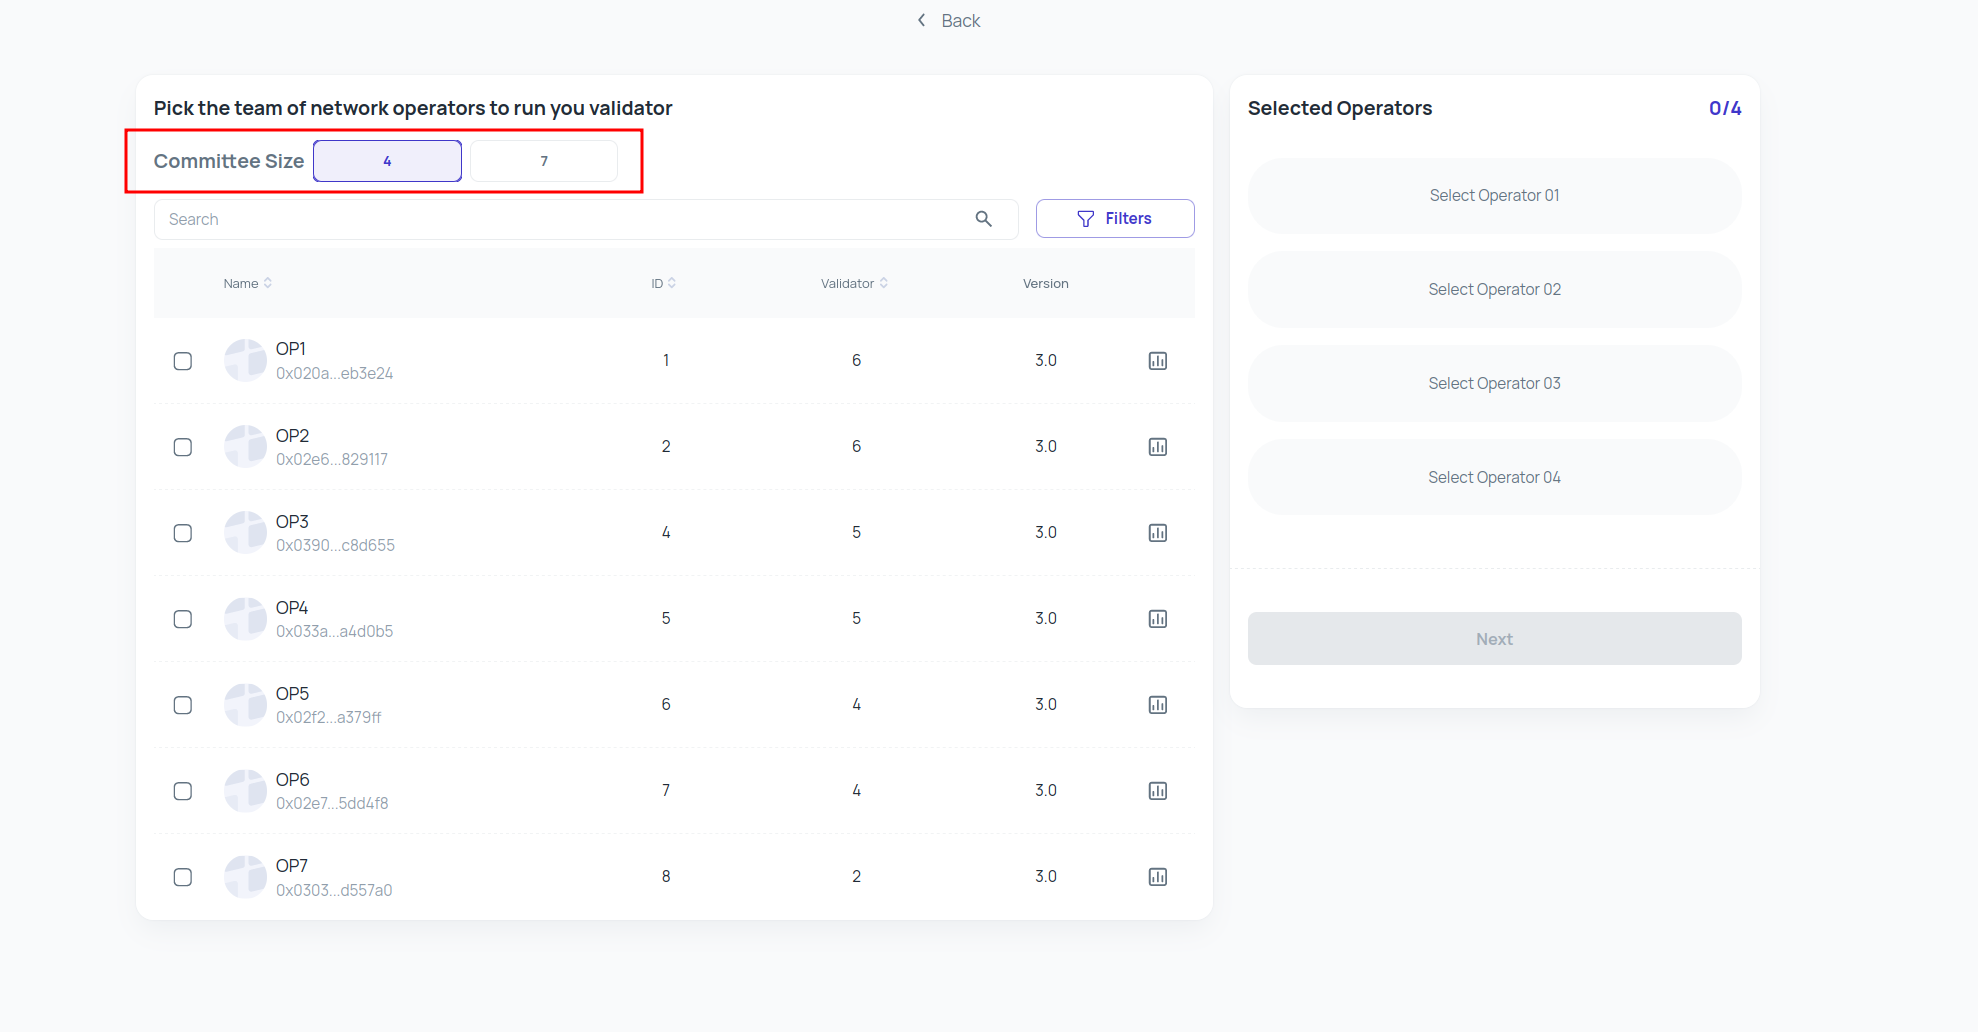
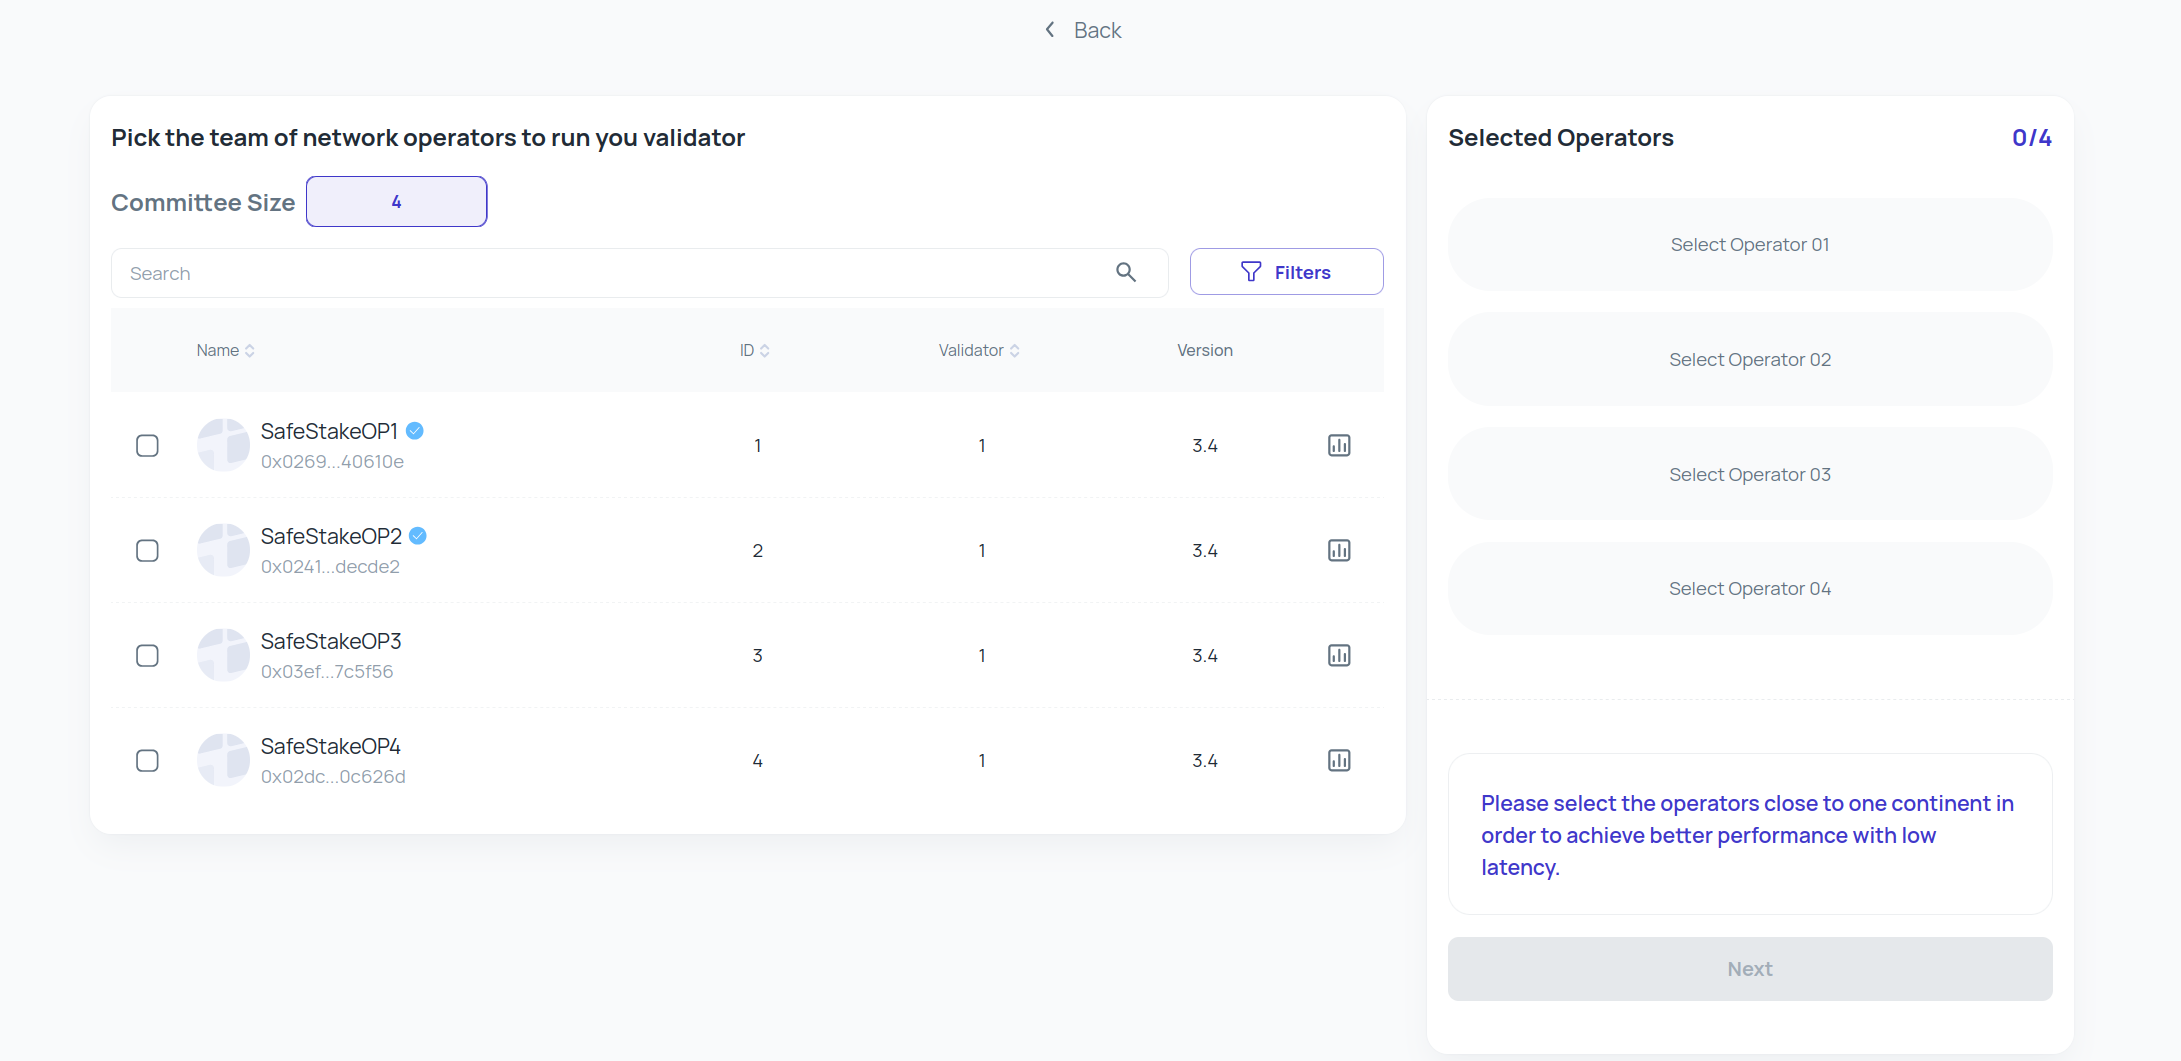
remove 5/7

diff --git a/docs/safestake-running-an-operator-node.md b/docs/safestake-running-an-operator-node.md
@@ -275,7 +275,7 @@ graph TD;
 ## Validator
 
 ### Registration
-Before registering a validator in SafeStake website, users need to deposit a validator first and the wait the validator to become active. Then users need provide the keystore file and select either 4 operators which require at least 3 operators to do attestations or 7 operators which require at least 5 operators to do attestations. Finally, users need to deposit DVT to make operators start attestions for this validator.
+Before registering a validator in SafeStake website, users need to deposit a validator first and the wait the validator to become active. Then users need provide the keystore file and select 4 operators which require at least 3 operators to do attestations. Finally, users need to deposit DVT to make operators start attestions for this validator.
 <figure><img src="imgs/committe-size.png" alt=""><figcaption></figcaption></figure>
 
 ### Remove
